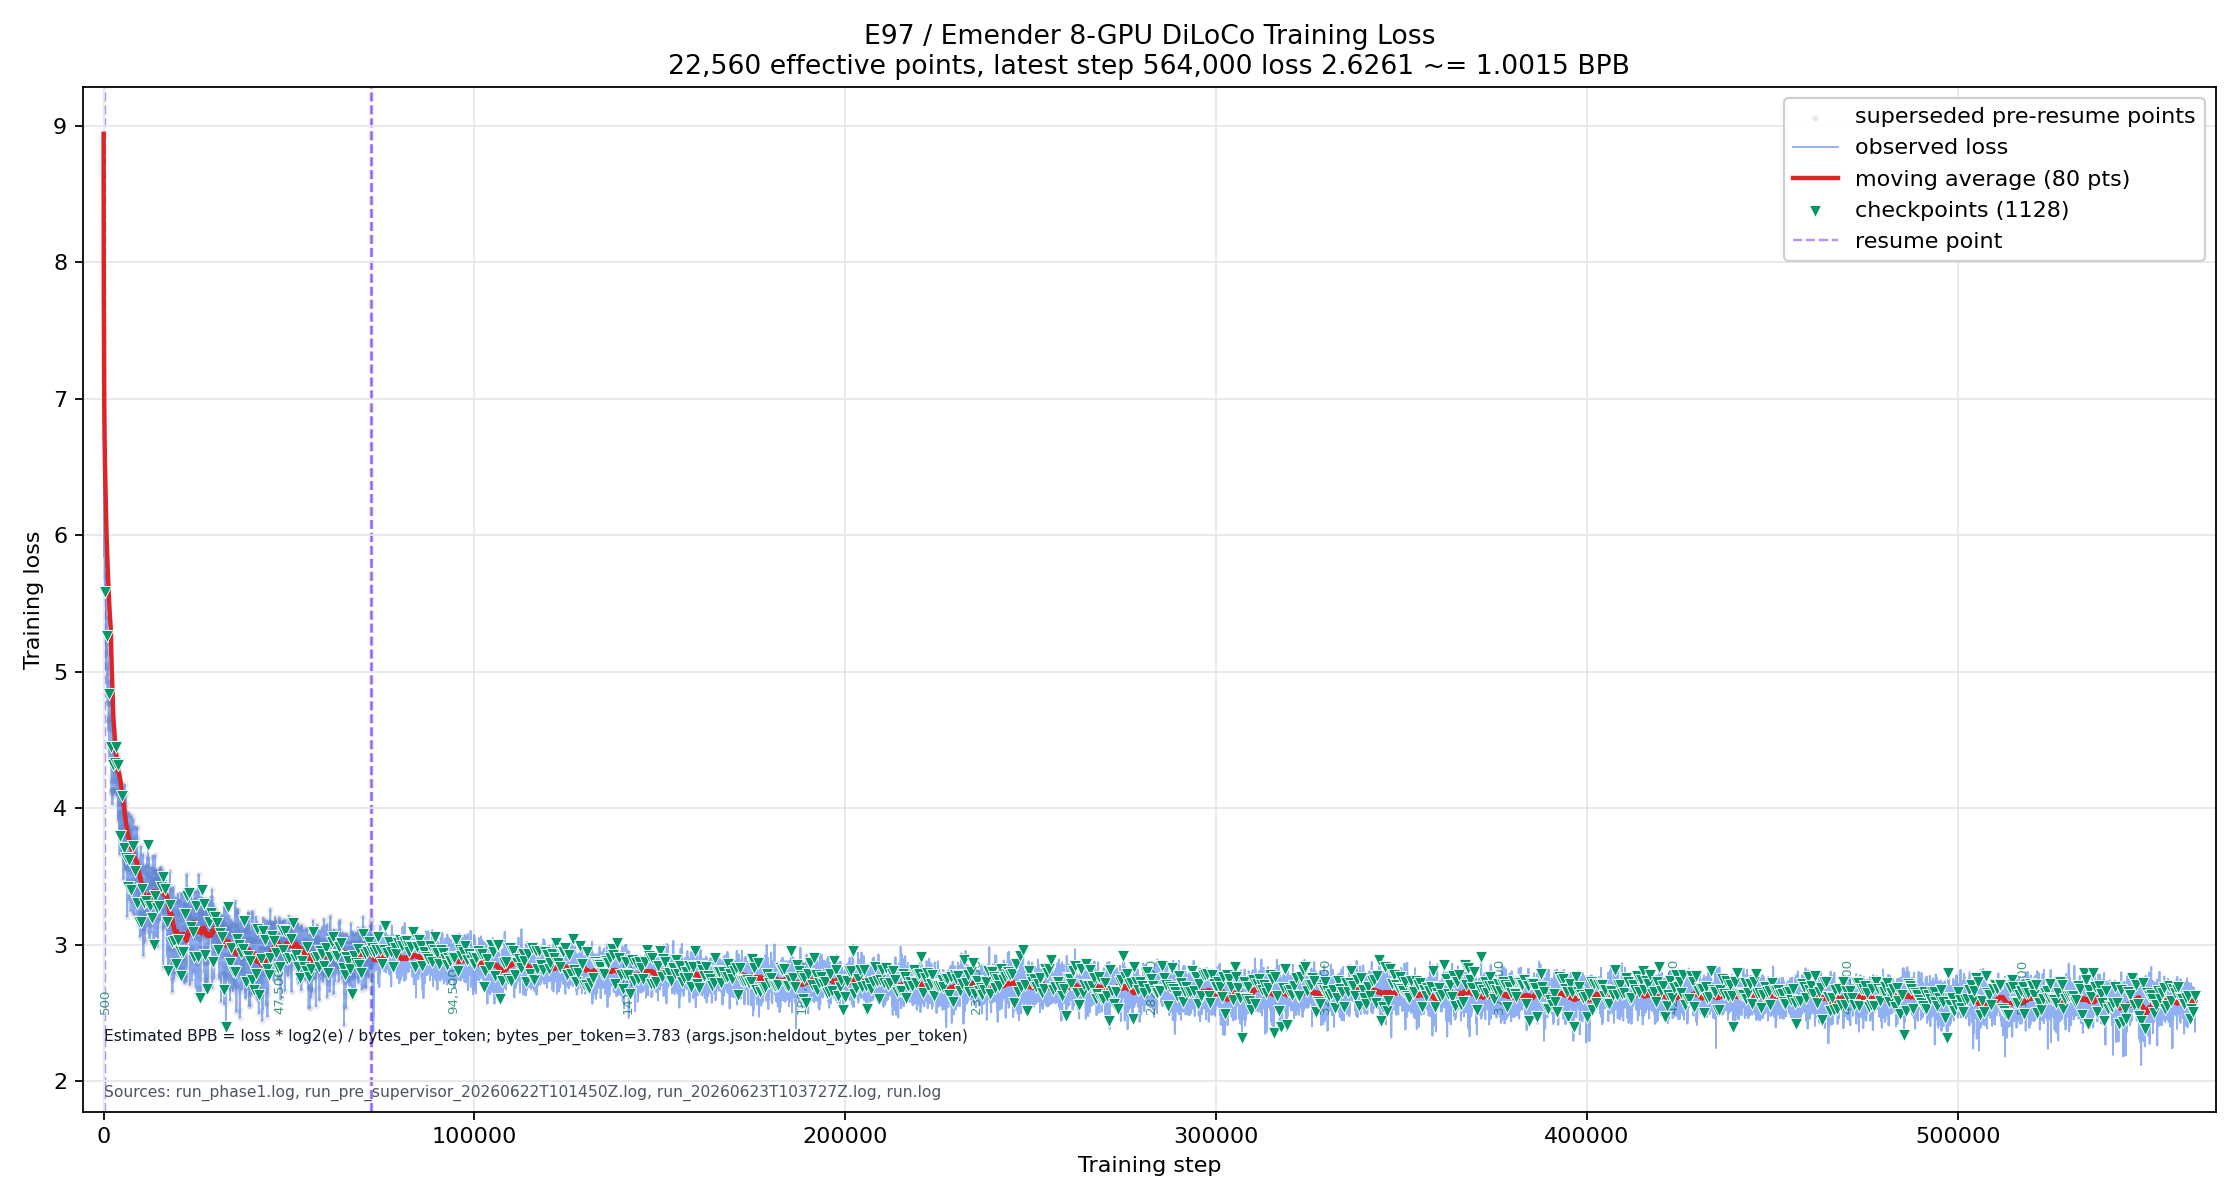
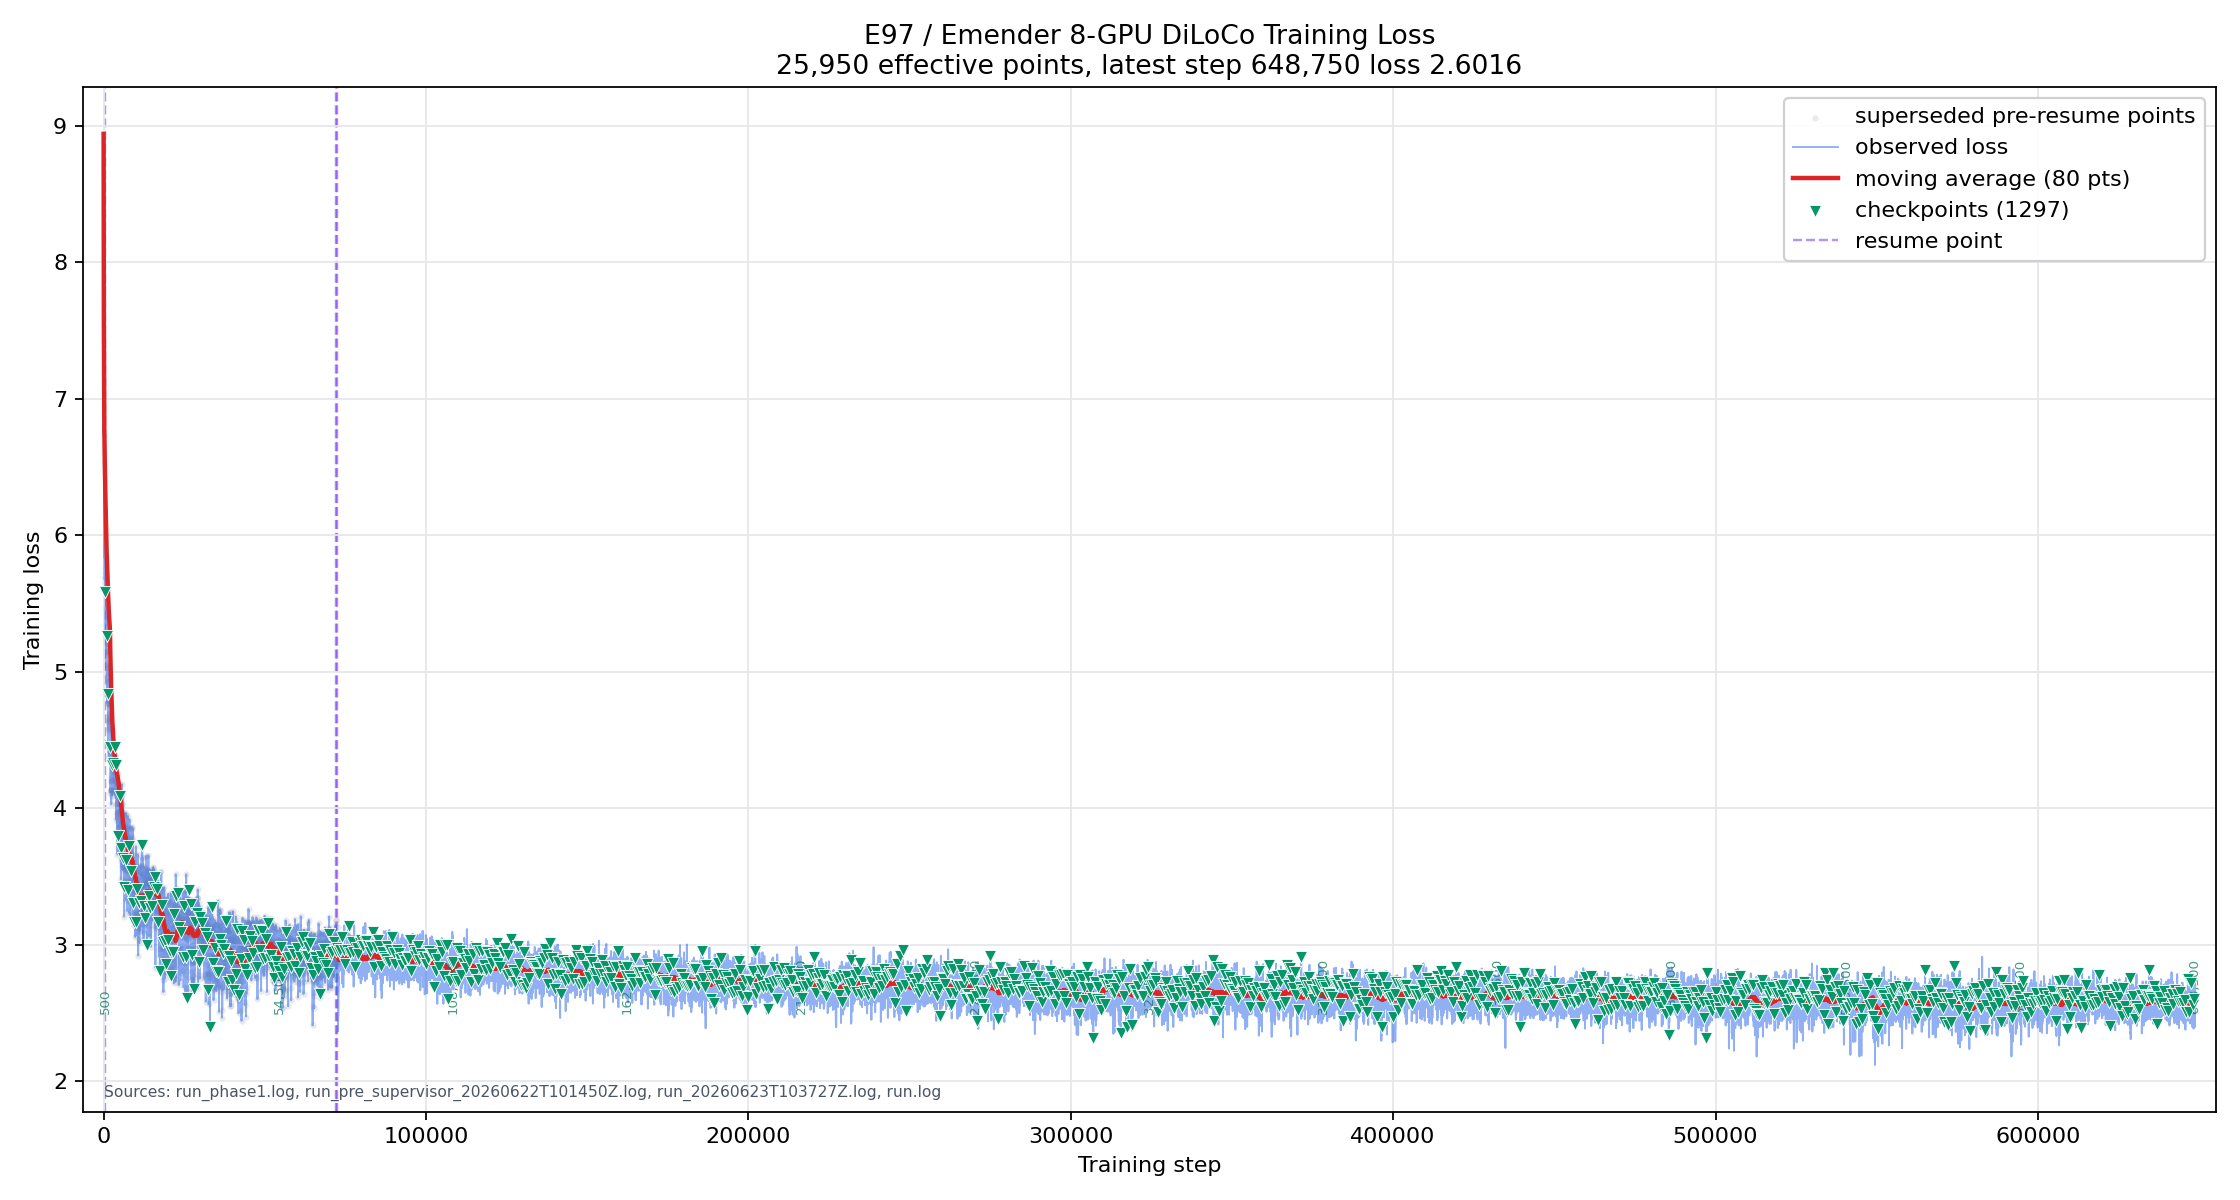
docs: refresh E97 DiLoCo loss plot (update-e97-loss-info-figure-20260630T075103)

diff --git a/docs/E97_LOSS_CURVE_BPB_REFRESH_20260630_0755.md b/docs/E97_LOSS_CURVE_BPB_REFRESH_20260630_0755.md
@@ -1,0 +1,78 @@
+# E97 Loss Curve BPB Refresh - 2026-06-30 07:55 UTC
+
+Scope: refreshed the hosted E97/Emender 8-GPU DiLoCo loss curve from current
+live logs using the existing repository plotting workflow. I inspected the live
+run read-only and did not stop, restart, modify, rename, delete, or launch
+training/eval.
+
+## Inputs
+
+- Plot script: `scripts/plot_e97_diloco_loss.py`
+- Run root: `/mnt/nvme1n1/erikg/diloco_8gpu/emender`
+- Log sources:
+  - `/mnt/nvme1n1/erikg/diloco_8gpu/emender/run_phase1.log`
+  - `/mnt/nvme1n1/erikg/diloco_8gpu/emender/run_pre_supervisor_20260622T101450Z.log`
+  - `/mnt/nvme1n1/erikg/diloco_8gpu/emender/run_20260623T103727Z.log`
+  - `/mnt/nvme1n1/erikg/diloco_8gpu/emender/run.log`
+- Output PNG: `docs/experiments/figures/e97_diloco_loss_curve_20260623.png`
+- Hosted URL: `http://hypervolu.me/~erik/emender/e97_diloco_loss_curve_20260623.png`
+
+## Current Training Snapshot
+
+- Raw parsed points: `28,865`
+- Effective plotted points after resume deduplication: `25,950`
+- Superseded pre-resume points: `2,915`
+- Resume steps: `500`, `72000`, `72500`
+- Latest plotted step: `648750`
+- Latest plotted timestamp: `2026-06-30T07:54:50+00:00`
+- Latest raw training loss: `2.6016`
+- Plot smoothing: moving average over `80` points
+- Plot-smoothed loss: `2.578550`
+
+## Token Accounting
+
+This is an 8-GPU run with `batch_size=4`, `chunk_size=2048`,
+`grad_accum=1`, and `world_size=8`.
+
+```text
+tokens_per_step = 4 * 2048 * 8 = 65,536
+global_tokens_seen = 648750 * 65,536 = 42,516,480,000
+```
+
+## BPB
+
+Using `bytes_per_token=3.783` from
+`/mnt/nvme1n1/erikg/diloco_8gpu/emender/runs/levelE97_100m_20260623_103742/args.json:heldout_bytes_per_token`.
+
+Formula:
+
+```text
+BPB = loss * log2(e) / bytes_per_token
+```
+
+For `bytes_per_token=3.783`, `log2(e) / bytes_per_token = 0.381362685934`.
+
+- Latest raw estimated BPB: `0.992153`
+- Plot-smoothed estimated BPB: `0.983363`
+
+## Checkpoint Context
+
+- Latest checkpoint: `/mnt/nvme1n1/erikg/diloco_8gpu/emender/runs/levelE97_100m_20260623_103742/checkpoint_step_648500_loss_2.5999.pt`
+- Latest checkpoint step: `648500`
+- Latest checkpoint loss: `2.5999`
+- Latest checkpoint estimated BPB: `0.991505`
+
+## Verification
+
+- Local PNG SHA-256:
[1 lines of base64/hex data omitted]
+- SSH remote target:
+  `[email redacted]:www/emender/e97_diloco_loss_curve_20260623.png`
+- SSH remote SHA-256:
[1 lines of base64/hex data omitted]
+- Public HTTP status: `HTTP/1.1 200 OK`
+- Public HTTP content type: `image/png`
+- Public HTTP SHA-256:
[1 lines of base64/hex data omitted]
+
+Local, SSH remote, and public HTTP artifact hashes matched.